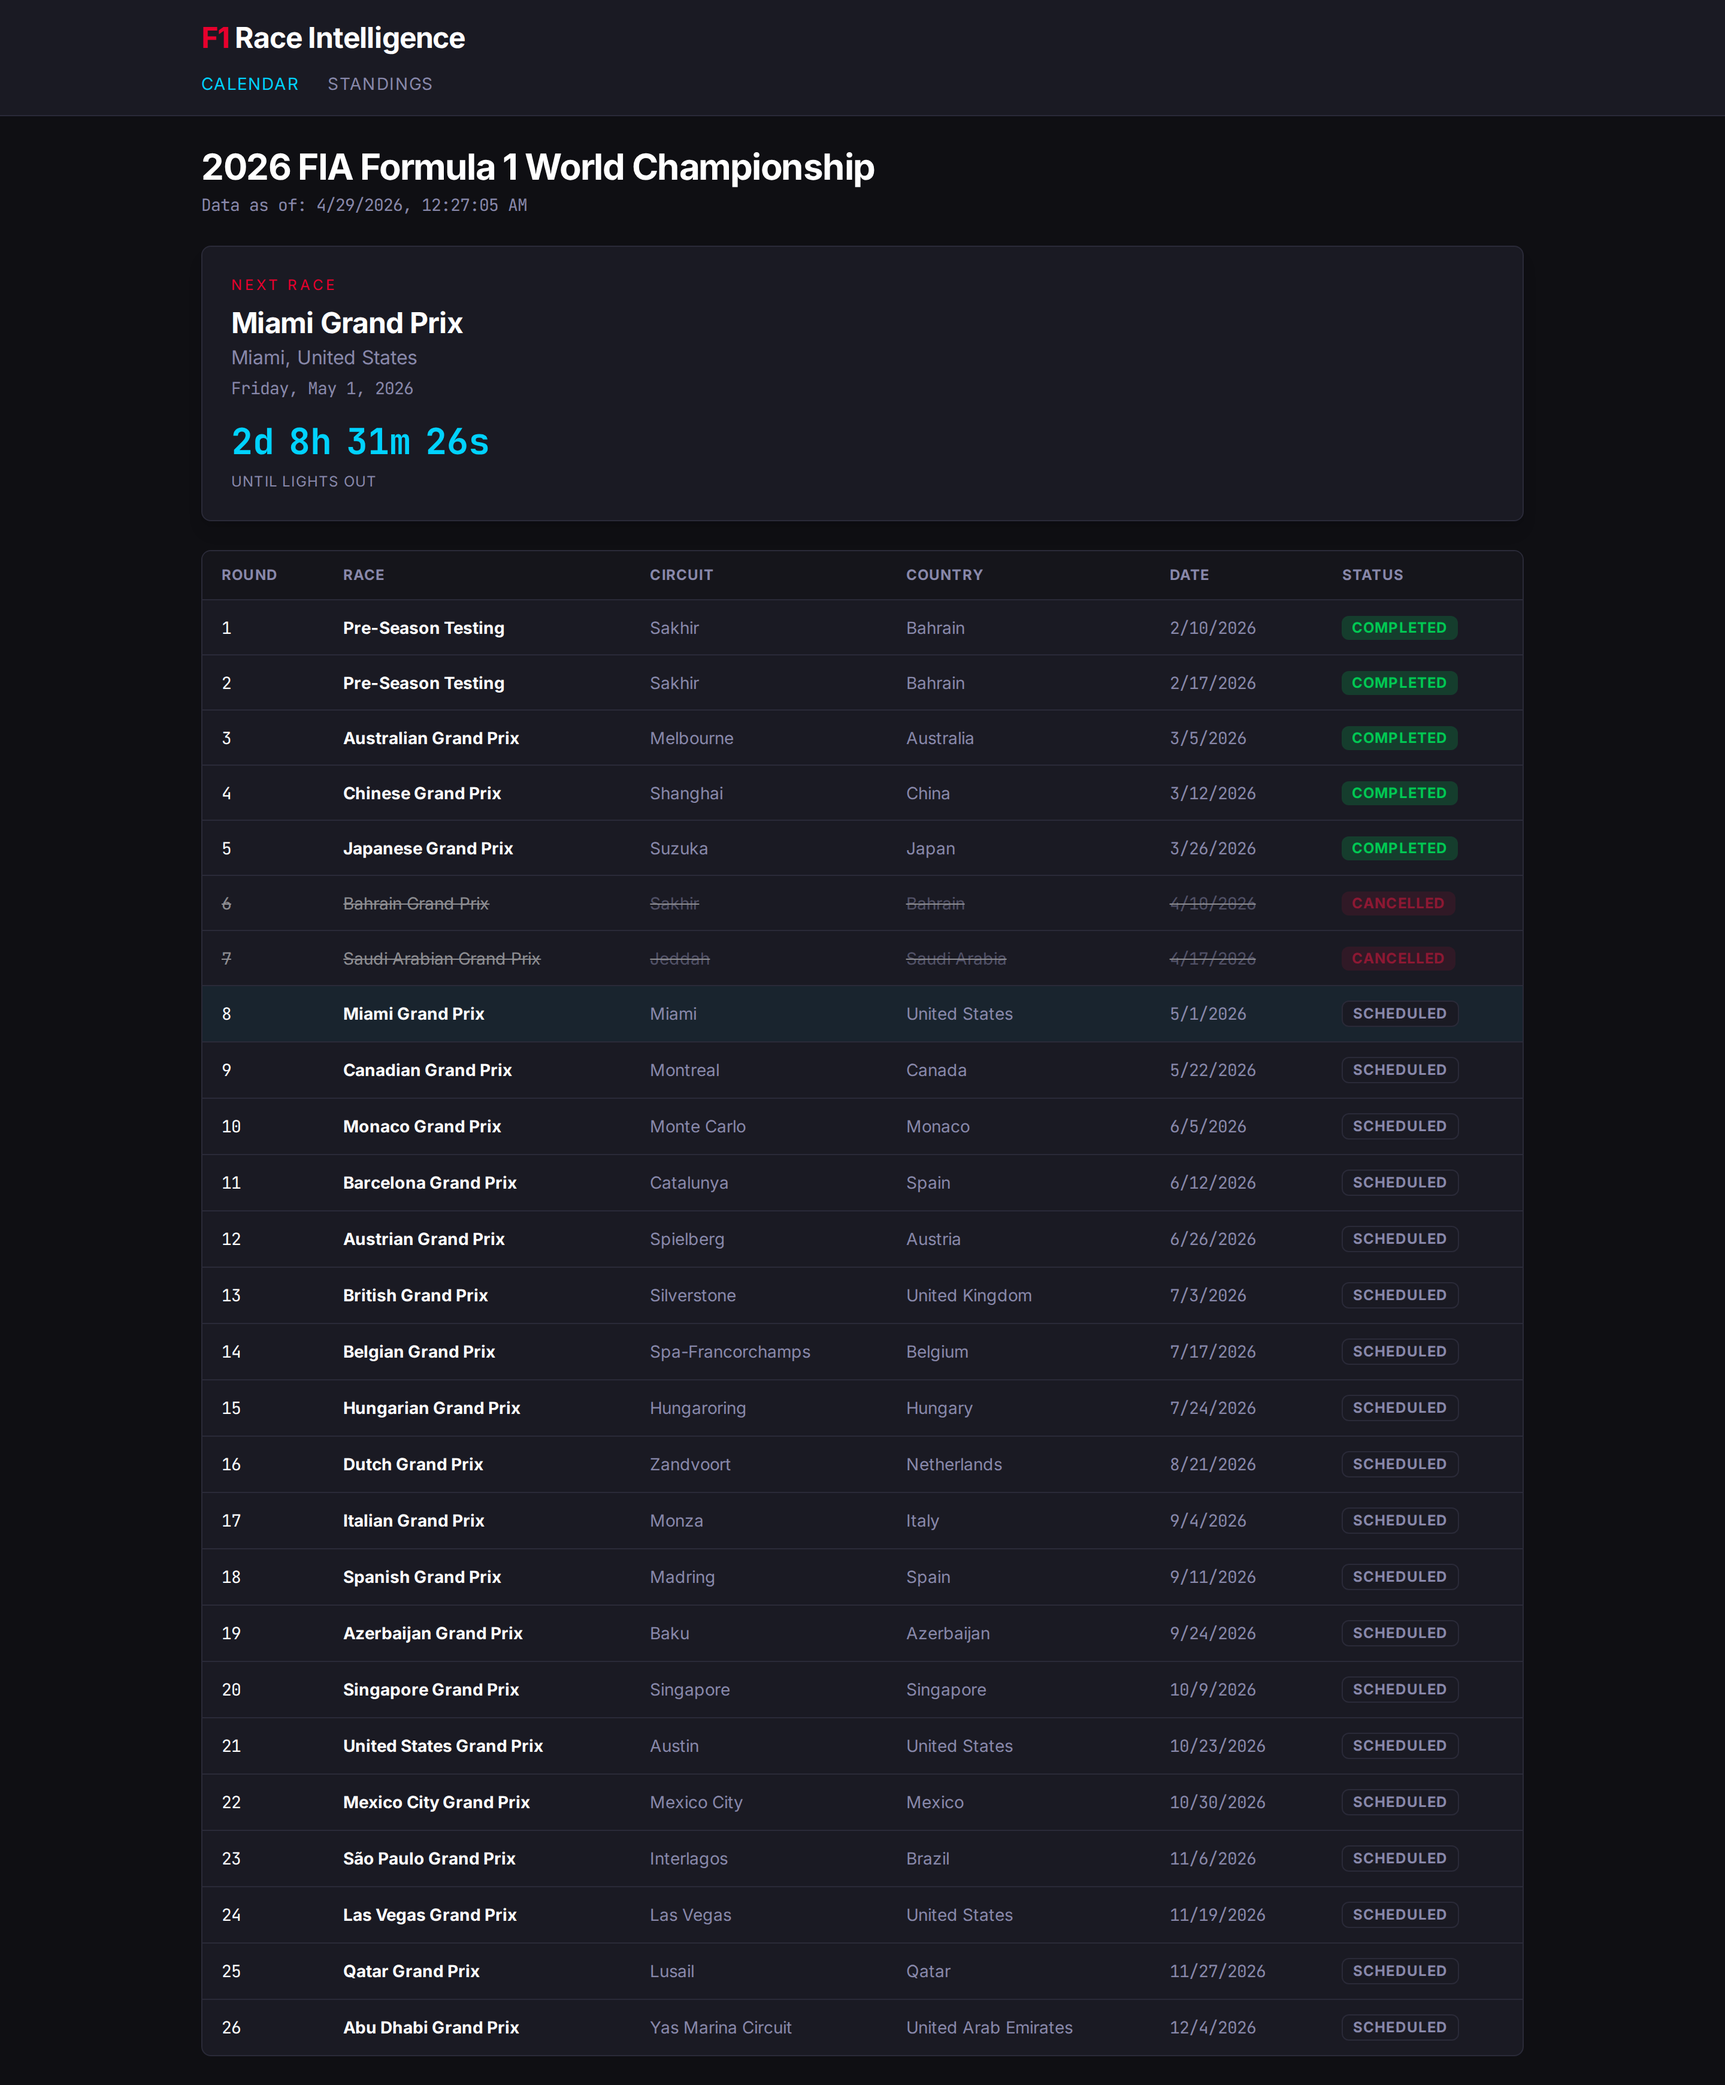
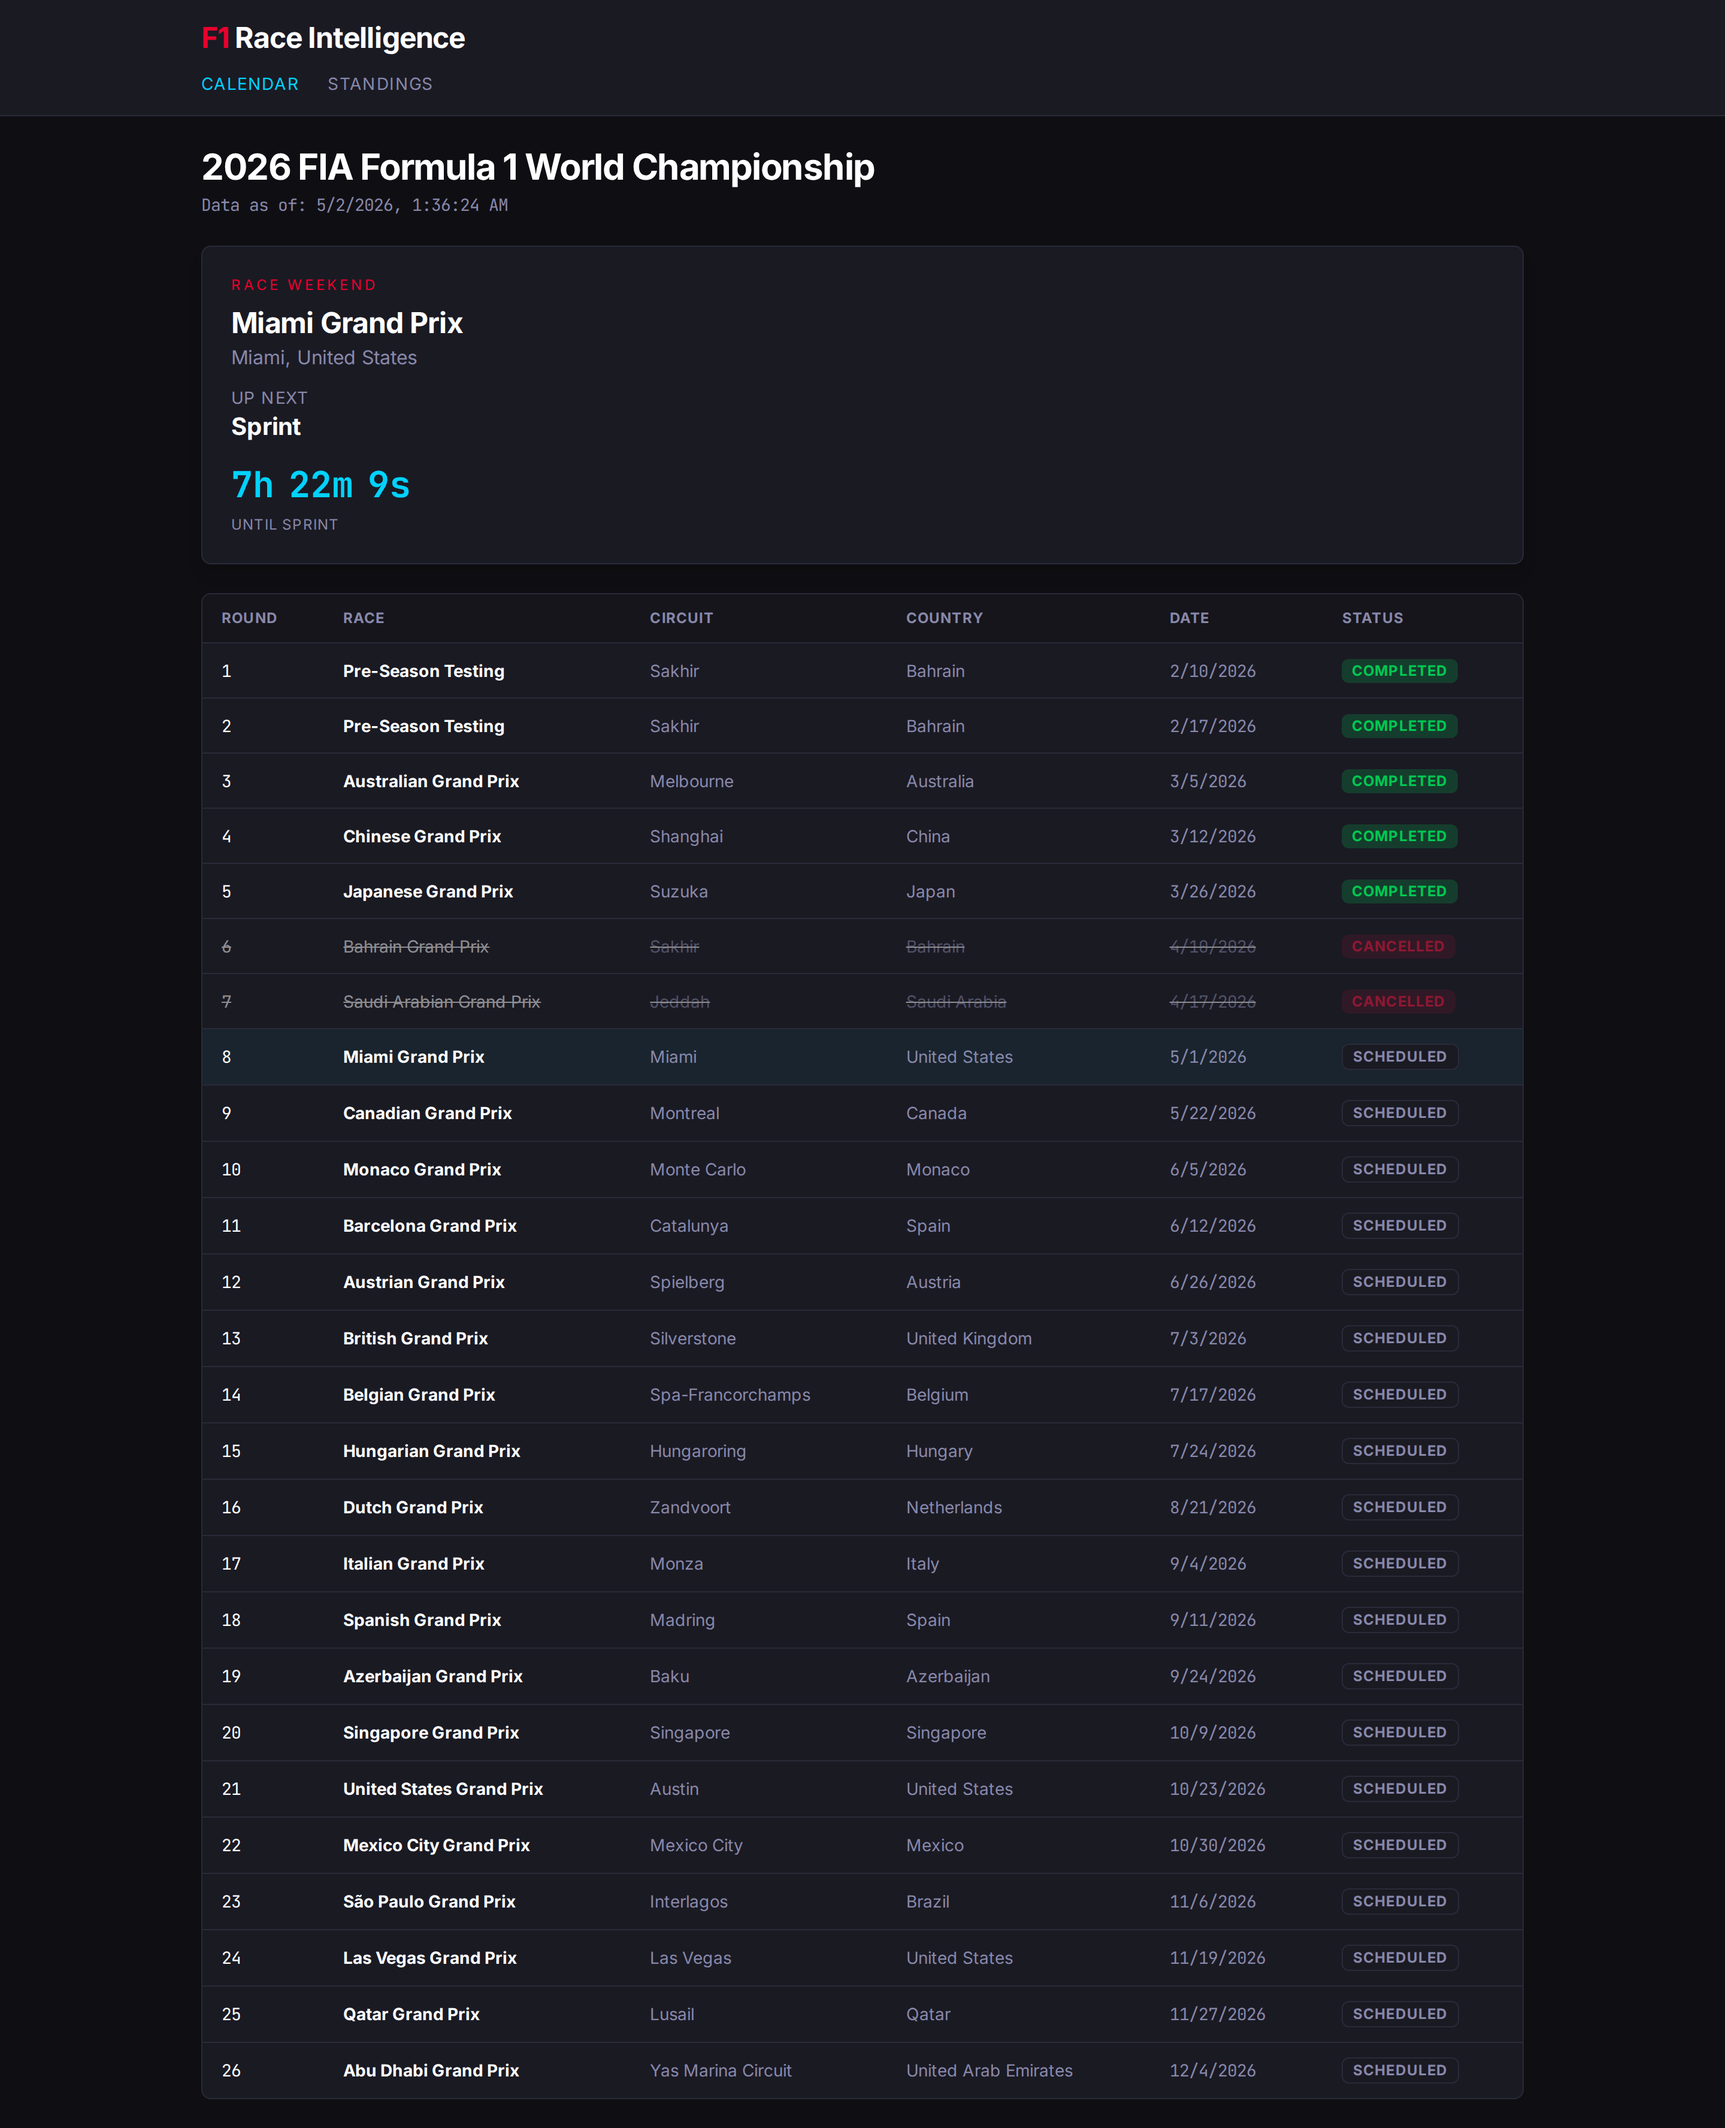
blog: Day 16 — race weekend countdown bug and the active-session fix (#33)
Mid-Miami-Sprint-weekend, the calendar showed a 19-day countdown to
Canada because SelectNextRace skipped any round whose 'start' (Friday
FP1) was already in the past. The fix: skip on weekend *end*, not
weekend start. Then surface the active session (live > upcoming > last
completed) so the card can read 'Up Next: Sprint' instead of a generic
multi-day countdown.

Includes a screenshot of the live RACE WEEKEND card mid-Sprint-weekend.

diff --git a/docs/blog/day-16-race-weekend-countdown.md b/docs/blog/day-16-race-weekend-countdown.md
@@ -1,0 +1,184 @@
+# Day 16: The Countdown Was Lying — Race Weekend Status
+
+*Posted May 2, 2026 · Karl Kuhnhausen*
+
+---
+
+It's Saturday morning of the Miami Grand Prix Sprint weekend. I open the dashboard to check what time the Sprint actually starts, and the calendar page tells me the next race is in **19 days**.
+
+That's wrong on its face — Sprint qualifying ran Friday, the Sprint is later today, and the actual race is tomorrow. The site, smug and expensively deployed in Azure, was showing me a multi-week countdown to the *Canadian* Grand Prix. Mid-race-weekend.
+
+This post is about what that bug actually was, why it had been hiding the entire season, and a small but useful realization about what "next race" even means.
+
+---
+
+## What the page was doing
+
+The calendar page renders one of two states above the fixture list: a **Next Race Countdown** card, or nothing. The countdown card asks the API two things — `next_round` and `countdown_target_utc` — and renders the days/hours/minutes/seconds delta from now.
+
+The `next_round` calculation lived in the domain layer:
+
+```go
+func SelectNextRace(meetings []RaceMeeting, now time.Time) NextRaceResult {
+    for _, m := range meetings {
+        if m.IsCancelled || m.Status == StatusCancelled {
+            continue
+        }
+        if !m.StartDatetimeUTC.After(now) {
+            continue                // ← here
+        }
+        return NextRaceResult{
+            Round:           m.Round,
+            CountdownTarget: m.StartDatetimeUTC,
+            Found:           true,
+        }
+    }
+    return NextRaceResult{}
+}
+```
+
+Read that skip condition. "Skip any round whose start datetime is not after now."
+
+The pivot is: **what is `StartDatetimeUTC`?** I'd been carrying around an unexamined intuition that it meant "race start" — Sunday lights-out. It doesn't. Look at the ingest transform:
+
+```go
+m := storage.RaceMeeting{
+    StartDatetimeUTC: startUTC,                          // OpenF1 meeting.date_start
+    EndDatetimeUTC:   startUTC.Add(3 * 24 * time.Hour),  // Friday + 72h
+    ...
+}
+```
+
+OpenF1's `date_start` for a meeting is the **first session of the weekend**. For Miami that's Practice 1 on Friday at 17:30 UTC, not the Sunday race at 19:00 UTC. So once Friday FP1 began, the selector saw `StartDatetimeUTC` in the past, marked the entire Miami round as "past," and walked forward to Canada.
+
+The bug was structural. It would fire every Friday of every race weekend, for the entire season, until the weekend ended. I just hadn't been on the dashboard at exactly the right moment until today.
+
+---
+
+## The rename that wasn't
+
+There's a programming-language joke here: the field is called `StartDatetimeUTC` and you'd reasonably assume it starts the *thing the page calls a "race."* But in motorsport, "race weekend" and "race" are different objects. A weekend has a window (Friday FP1 through Sunday race). The race itself is one ~2-hour session inside that window.
+
+The data model was modeling weekends. The selector was treating them like races. The bug is the gap between those two intuitions.
+
+I considered renaming to `WeekendStartUTC` / `WeekendEndUTC`. I didn't, because:
+
+1. Storage rows are persisted, and renaming the JSON key requires a migration.
+2. The names are accurate to the *meeting* (which is what OpenF1 calls them).
+3. The fix doesn't need a rename — it needs the *consumer* of those dates to think in weekends.
+
+So the fix is two lines:
+
+```go
+end := m.EndDatetimeUTC
+if end.IsZero() && !m.StartDatetimeUTC.IsZero() {
+    end = m.StartDatetimeUTC.Add(72 * time.Hour)
+}
+if !end.IsZero() && !end.After(now) {
+    continue
+}
+```
+
+A round is "past" once its **weekend window** has ended, not once its first session has started. Now the selector returns Miami all the way through Sunday's race, and only flips to Canada once the weekend is over.
+
+---
+
+## "Next race" was the wrong question
+
+Fixing the skip was 80% of the problem. The other 20% is more interesting: even with the right round selected, what should the page *say*?
+
+Counting down to the Sunday race time during a weekend isn't quite right either. On Saturday, the thing I actually want to know is "when does the Sprint start." On a normal Saturday it's "when does Qualifying start." On Friday it's "Practice 2 in 90 minutes." The lights-out countdown is interesting on Tuesday, less interesting on Saturday afternoon.
+
+The data to do better was already in the database. Feature 3 added a `sessions` collection — every Practice / Sprint Qualifying / Sprint / Qualifying / Race session for every round, with start and end timestamps. The round detail page was already using it. The calendar page just hadn't asked.
+
+So the calendar service got a small piece of new logic. When the next round's weekend window contains *now*, the API:
+
+1. Loads the sessions for that round.
+2. Picks the **active session** — the one currently in progress, else the next upcoming, else the last completed.
+3. Surfaces it on the response as `active_session`, with a `session_type` (`practice1` / `sprint_qualifying` / `sprint` / `qualifying` / `race` / etc.) and a status (`upcoming` / `in_progress` / `completed`).
+4. Re-targets `countdown_target_utc` to *that session's* start (or end, if it's live).
+
+```json
+{
+  "year": 2026,
+  "next_round": 8,
+  "countdown_target_utc": "2026-05-02T16:00:00Z",
+  "weekend_in_progress": true,
+  "active_session": {
+    "session_type": "sprint",
+    "session_name": "Sprint",
+    "status": "upcoming",
+    "date_start_utc": "2026-05-02T16:00:00Z",
+    "date_end_utc":   "2026-05-02T17:00:00Z"
+  },
+  "rounds": [...]
+}
+```
+
+Picking the active session is the kind of thing that's easy to get subtly wrong, so it lives in the domain layer with its own unit tests:
+
+```go
+func SelectActiveSession(sessions []SessionWindow, now time.Time) (ActiveSession, bool) {
+    // sort by start time; then:
+    // 1. first in_progress session wins
+    // 2. else first upcoming session wins
+    // 3. else last completed session (weekend wrapping up)
+}
+```
+
+Three cases. Five tests. The interesting one is case 3 — once the Sunday race is over but the dashboard is still showing weekend context, the card reads "Just finished — Race" instead of jumping back to a generic countdown. Then once `now > EndDatetimeUTC`, the selector advances to the next round and the regular countdown card reappears.
+
+---
+
+## What it looks like
+
+Here's the dashboard right now, mid-Miami-Sprint-weekend, with the fix live:
+
+![Race Weekend card on the calendar page — RACE WEEKEND, Miami Grand Prix, Up Next: Sprint, 7h 21m 27s until Sprint](images/race-weekend-card.png)
+
+Eyebrow says **RACE WEEKEND**. Race name and circuit. "UP NEXT: Sprint." Countdown to Sprint lights-out. When the Sprint goes live, the eyebrow flips to **RACE WEEKEND · LIVE**, the label changes to "Now: Sprint," and the countdown becomes the time remaining in the session. When the session ends, it walks to "Up Next: Race." When the Race ends, it shows "Just finished: Race." When the weekend window closes Sunday night, the card flips back to the regular **Next Race** countdown pointing at Canada.
+
+State machines for state machines. Each transition is just `now` crossing a session boundary.
+
+---
+
+## The shape of the fix
+
+| Layer | Change |
+|---|---|
+| `domain/next_race_selector.go` | Skip rounds based on **weekend end**, not weekend start. Two lines. |
+| `domain/active_session.go` | New file. `SelectActiveSession` (live > upcoming > last completed) + `DeriveSessionStatus`. |
+| `api/calendar/service.go` | Optionally takes a `SessionRepository`. When the next round's window contains `now`, populate `weekend_in_progress` + `active_session`, retarget the countdown. |
+| `api/router.go` | Wire the existing `sessionRepo` into the calendar service constructor. |
+| `frontend/calendar/RaceWeekendCard.tsx` | New component. Eyebrow / race name / "Now \| Up Next \| Just finished" / session label / session-scoped countdown. |
+| `frontend/calendar/CalendarPage.tsx` | Branch: `weekend_in_progress` → `RaceWeekendCard`, else → existing `NextRaceCard`. |
+
+Backend has new unit tests for the selector's weekend behavior, for `SelectActiveSession`, and for the calendar service's enrichment. Frontend has a new `RaceWeekendCard.test.tsx` covering all four states.
+
+There was also a small embarrassment in the existing integration tests. `TestCountdownTransition_AfterMiami` was using `2026-05-05` as "after Miami" — but Miami's weekend window doesn't end until 2026-05-07 19:00 UTC. The test had been *asserting the buggy behavior*: "after May 5, the next round should already be Spanish GP." The fix exposed it. I bumped the timestamp to May 8 and the test went green for the right reason.
+
+This is the classic shape of a test that locks in a bug. It looked like coverage. It was actually concrete.
+
+---
+
+## Patterns I keep seeing
+
+This is the second time this season a bug has come from "the cached/stored value disagreed with what `now` says." [Day 12](day-12-status-badge-bug.md) was about session statuses being hardcoded `"completed"` at write-time, fixed by deriving status at *read* time from dates and clock. [Day 14](day-14-design-polish.md) was about meeting status going stale because the ingest layer wrote it once and never updated. This one is about a derived-from-dates value (`is the round past?`) that *was* being computed at read time, but from the wrong field.
+
+The pattern is: **anything that's a function of the wall clock should be computed at read time, from the underlying timestamps, and the storage layer should hold timestamps not derived states.** Status fields, "is this past," "is this in progress," "what's next" — none of these belong in Cosmos as scalars. They belong as functions over the timestamps that *are* in Cosmos.
+
+The architecture was already mostly aligned with this. I just had a remaining selector that was reading the wrong timestamp.
+
+---
+
+## What's live
+
+- **PR**: [#32](https://github.com/karlkuhnhausen/f1-race-intelligence/pull/32) — squash-merged to `master`. CI ran the full lint → test → build → push → deploy chain. Live on the deployed AKS app within ~15 minutes of the commit.
+- **Tests**: 61/61 frontend, all backend packages green. Three new backend unit-test files plus one corrected integration test. One new frontend test file.
+- **Behavior**: the calendar's countdown card now correctly tracks the active session through the weekend, and only flips back to "next race" once Sunday's race window closes.
+
+The Miami Sprint goes off in 7 hours and 21 minutes. I know because the dashboard finally tells me.
+
+---
+
+[← Day 15: Feature 4 — What a "Pure Frontend" Feature Actually Cost](day-15-feature-004-wrap.md)

diff --git a/README.md b/README.md
@@ -54,6 +54,7 @@ This project is being built in public, with architecture decisions and progress 
 - [Day 12: The Bug That Said "Completed" When the Race Hadn't Started](docs/blog/day-12-status-badge-bug.md)
 - [Day 13: An Empty String Is a Wildcard — Closing the AKS Allowlist Hole](docs/blog/day-13-allowlist-guard.md)
 - [Day 14: Three Bugs, One Cause — When Stale Cached State Becomes a UX Smell](docs/blog/day-14-design-polish.md)
+- [Day 16: The Countdown Was Lying — Race Weekend Status](docs/blog/day-16-race-weekend-countdown.md)
 
 ## Architecture Direction
 

diff --git a/docs/blog/day-15-feature-004-wrap.md b/docs/blog/day-15-feature-004-wrap.md
@@ -130,4 +130,4 @@ The branch protection rule on master held through Feature 4 — every change shi
 
 ---
 
-[← Day 14: Three Bugs, One Cause — When Stale Cached State Becomes a UX Smell](day-14-design-polish.md)
+[← Day 14: Three Bugs, One Cause — When Stale Cached State Becomes a UX Smell](day-14-design-polish.md) · [Day 16: The Countdown Was Lying — Race Weekend Status →](day-16-race-weekend-countdown.md)
